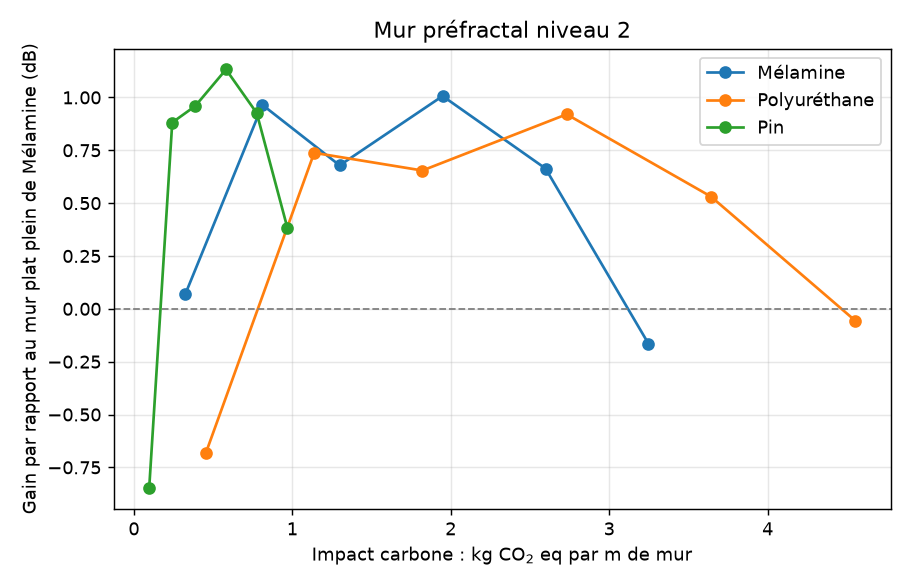
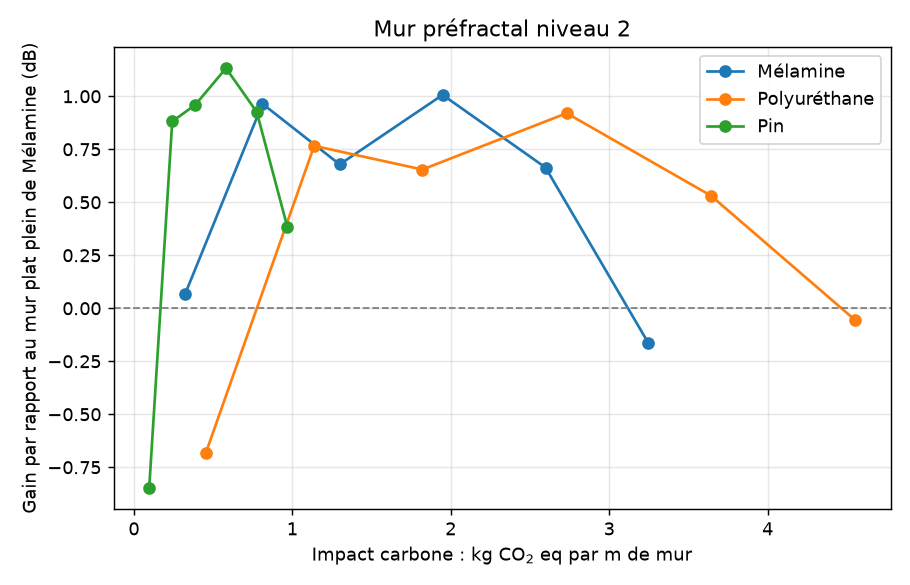
sync with the github

diff --git a/courbe_impact_materiaux.py b/courbe_impact_materiaux.py
@@ -26,7 +26,7 @@ from demo_control_polycopie2024 import our_optimization_procedure_multiple, comp
 
 # parametres
 N = 50                     # points de la grille (domaine de 1 m x 1 m)
-level = 2                  # 0 = mur plat, 1 ou 2 = mur préfractal
+level = 0                  # 0 = mur plat, 1 ou 2 = mur préfractal
 c0 = 340.0                 # vitesse du son (m/s), la même que dans compute_alpha.py
 epaisseur = 0.01           # épaisseur du matériau (m), la même que L dans compute_alpha.py
 
@@ -42,7 +42,11 @@ MATERIALS = {
     'Pin': {'phi': 0.671, 'sigma': 35540.0, 'alpha_h': 1.22, 'f_emission': 24.0},  # EPD EGGER, résineux séché
 }
 reference = 'Mélamine'     # le mur plein de ce matériau sert de référence (gain = 0 dB)
-
+PRIX = {
+    'Mélamine': 8.5,
+    'Polyuréthane': 2.9,
+    'Pin': 6.9
+}
 
 # =====================================================================
 # MISE EN PLACE (comme dans le code fourni)
@@ -96,6 +100,11 @@ def impact_carbone(nom, beta):
     volume = beta * facteur_surface * epaisseur        # m3 de matériau
     return volume * MATERIALS[nom]['f_emission']
 
+def cout(nom, beta):
+    """Prix (€) de matériau pour 1 m de mur : surface couverte (m2) x prix au m2"""
+    surface = beta * facteur_surface            # m2 de poreux pour 1 m de mur
+    return surface * PRIX[nom]
+
 
 # =====================================================================
 # ÉTAPE 1 : fréquences de résonance du mur nu (les mêmes pour tous les matériaux)
@@ -141,7 +150,6 @@ for nom in MATERIALS:
     gains.append(10 * numpy.log10(J_ref / energie_moyenne(domain_omega, chi_plein, alphas_plage[nom])))
     resultats[nom] = gains
 
-
 # =====================================================================
 # ÉTAPE 4 : tableau et courbes
 # =====================================================================
@@ -171,3 +179,5 @@ def tracer(abscisses, xlabel, fichier):
 tracer(lambda nom: betas_tracees, 'β : part du mur couverte de poreux', f'perf_beta_materiaux_level{level}.png')
 tracer(lambda nom: [impact_carbone(nom, b) for b in betas_tracees],
        'Impact carbone : kg CO$_2$ eq par m de mur', f'perf_carbone_materiaux_level{level}.png')
+tracer(lambda nom: [cout(nom, b) for b in betas_tracees],
+       'Coût : € par m de mur', f'perf_prix_materiaux_level{level}.png')
